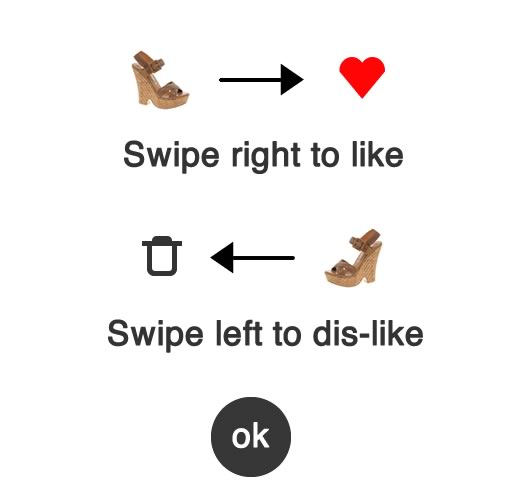
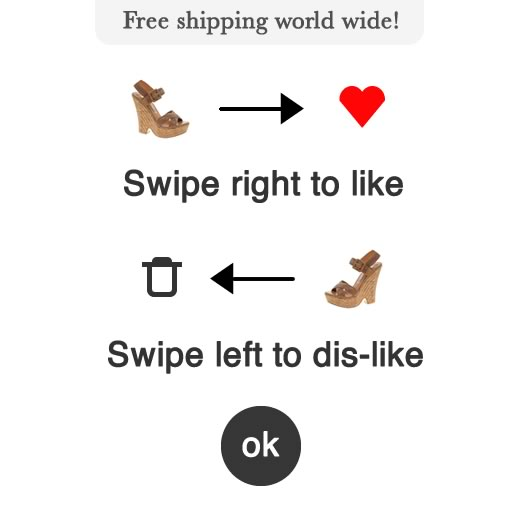
wrapped up initial screen

diff --git a/index.html b/index.html
@@ -19,6 +19,9 @@
 	
 	<body>
 		<div data-role="page">
+			<div data-role="content" id="" style="padding: 0px;">
+				<img src="images/freeShip.jpg" width="180px" style="display: block; margin: auto;" />
+			</div>
 			<div data-role="header" data-theme="a" data-position="fixed">
 				<img id="logo" src="images/logoX2.jpg" />
 				<div id="toggle-wishlist" value="Wishlist">
@@ -38,8 +41,10 @@
 			<div data-role="content" id="instructions">
 				<img src="images/instructionsX2.jpg" />
 			</div>
-			<div data-role="popup" id="instrDialog" data-overlay-theme="a" data-theme="a" data-dismissible="false" style="max-width:400px;" class="ui-corner-all">
-				<img src="images/instructionsAll.jpg" style="width: 280px; display: block; margin:auto;" onclick="$('.ui-dialog').dialog('close');"/>		
+			<div id="instructionsPopup" data-role="dialog" data-url="/html/instructions.html" data-external-page="true" tabindex="0" class="ui-page ui-page-theme-a ui-dialog ui-page-active" style="height: 100%;">
+				<div role="dialog" class="ui-dialog-contain ui-overlay-shadow ui-corner-all" style="max-width:320px">
+					<img src="images/instructionsAll.jpg" style="width: 280px; display: block; margin:auto;" onclick="$('#instructionsPopup').fadeOut();">		
+				</div>
 			</div>
 		</div>
 	</body>
@@ -47,14 +52,6 @@
 	<script src="js/tinder.js"></script>
 
 	<script type="text/javascript">
-		$(":jqmData(role='page'):last").on("pageinit", function(event) {
-			setTimeout(function () {
-        		$("#instrDialog").popup("open");
-			}, 10);
-        });
-		$(document).on('pageshow', function(){
-			//$('#instrDialog').popup('open');
-		})
 	</script>
 
 </html>

diff --git a/js/tinder.js b/js/tinder.js
@@ -228,8 +228,6 @@ function destroyOld(){
 }
 
 function buildNew(randomItem){
-	
-
 	var backgroundImg = "url('"+randomItem[2]+"')";
 	newProduct = $('<div class="behind imageBox"></div>').css('background-image', backgroundImg);
 

diff --git a/css/styles.css b/css/styles.css
@@ -26,7 +26,7 @@ body{
 
 #instructions{
 	text-align: center;
-	padding: 20px 0 0 0;
+	padding: 14px 0 0 0;
 	z-index: -1;
 }
 
